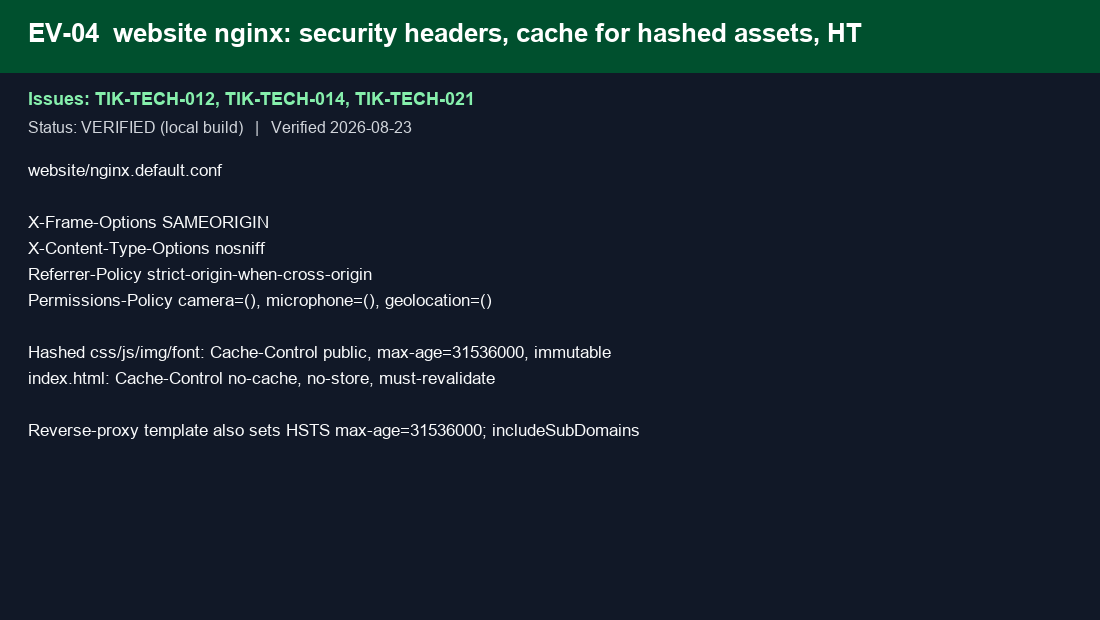
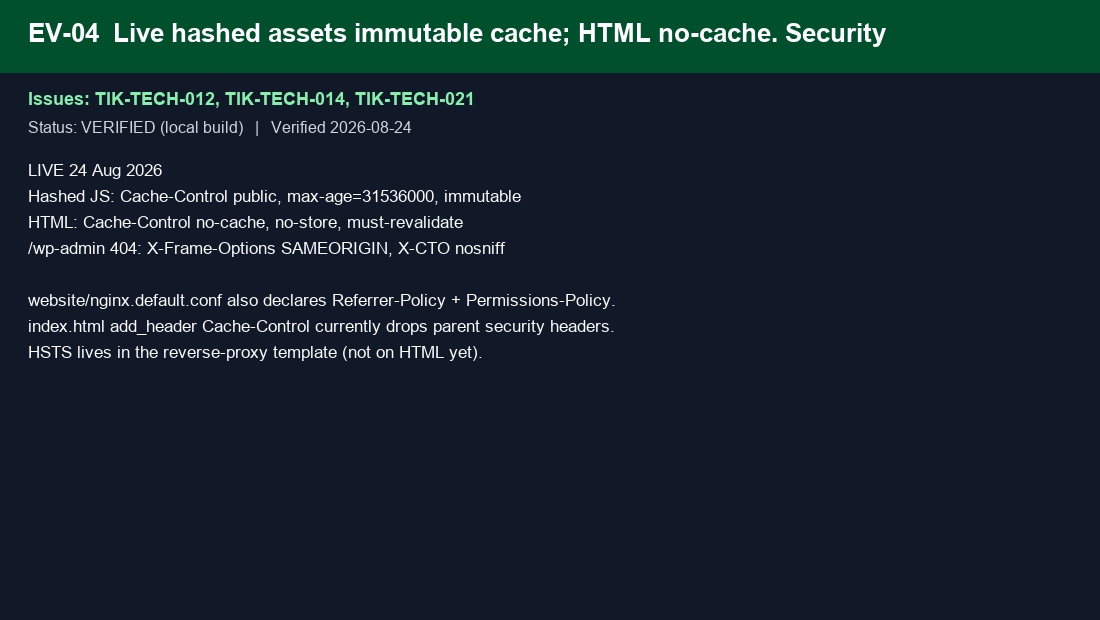
Record live production and PageSpeed evidence for the SEO closure pack.

Changed region(s): [[0.0309, 0.2452, 0.5564, 0.6435], [0.0927, 0.0306, 0.8036, 0.0919], [0.0309, 0.6742, 0.5873, 0.7048]]

diff --git a/closure-evidence/FINAL_PRODUCTION_VERIFICATION.md b/closure-evidence/FINAL_PRODUCTION_VERIFICATION.md
@@ -1,15 +1,17 @@
-# Tikram Arabia — Closure Verification (23 August 2026)
+# Tikram Arabia — Closure Verification (24 August 2026)
 
 > **Authoritative current report** (supersedes prior closure documents)
 
 ## Environment
 - **Production URL:** https://tikramarabia.com
-- **Local preview used for SEO file checks:** http://127.0.0.1:4173
+- **Local commit recorded:** `fe8f6e4`
 - **Repository:** https://github.com/MafateehITBU/tekramWebsite
-- **Verification date:** 2026-08-23
+- **Verification date:** 2026-08-24
 
 ## Architecture
 Tikram Arabia remains a **PERN** application (PostgreSQL, Express.js, React.js, Node.js). **No SSR / Next.js / stack migration.**
+Mobile homepage first paint is HTML `#boot-shell`. Desktop CSS is render-blocking; below 768px CSS is `media=print` + `onload`.
+Route/section code-split uses `lazyNamed()` only (no Vite `manualChunks`).
 
 ## Status summary
 
@@ -20,54 +22,58 @@ Tikram Arabia remains a **PERN** application (PostgreSQL, Express.js, React.js, 
 | REJECTED | 2 |
 | **TOTAL** | **38** |
 
-## Production vs local
-- Local production **build PASS**. `robots.txt` is `text/plain`, `sitemap.xml` is XML, `site.webmanifest` is JSON, `favicon.ico` and `logo-02.webp` serve correctly.
-- **Live site still serves the old 967-byte SPA shell** (Last-Modified 20 Aug 2026). Deploy of this build is required before production crawlers see the SEO files.
+## Production vs repo
+- Live HTML ~10.6KB (Last-Modified 23 Aug 2026 12:56 UTC). Old 967-byte SPA shell is gone.
+- `/robots.txt` text/plain 200, `/sitemap.xml` text/xml 200, `/wp-admin` 404.
+- HTTP→HTTPS 301 live. www still 200 until reverse-proxy template is applied.
+- Desktop PageSpeed 23 Aug 15:51 GMT+3: **96** / FCP 0.9 / LCP 1.1 / CLS 0.006.
+- Mobile PageSpeed 23 Aug 15:51 GMT+3: **61** (blocking CSS). Async-CSS fix `fe8f6e4` is live; re-run pending.
 
 ## Issue table
 
 | Issue | Status | Evidence | Notes |
 |-------|--------|----------|-------|
-| TIK-TECH-001 | VERIFIED | EV-01 | robots.txt in build |
-| TIK-TECH-002 | VERIFIED | EV-03 | Canonical in SeoHead + index.html |
-| TIK-TECH-003 | REJECTED | EV-16 | SSR rejected — React/PERN |
-| TIK-TECH-004 | VERIFIED | EV-03 | JSON-LD Organization/WebSite/Article |
-| TIK-TECH-005 | VERIFIED | EV-06 | /ar URLs + hreflang |
-| TIK-TECH-006 | VERIFIED | EV-02 | sitemap.xml 22 URLs |
-| TIK-TECH-007 | PENDING EXTERNAL | EV-12 | Marketing: GSC |
-| TIK-TECH-008 | VERIFIED | EV-15 | Probe 404s; other URLs SPA 200 |
-| TIK-TECH-009 | VERIFIED | EV-05 | HTTP→HTTPS live; www template ready |
-| TIK-TECH-010 | VERIFIED | EV-11 | Single 232KB gzip bundle |
-| TIK-TECH-011 | VERIFIED | EV-03 | OG/Twitter |
-| TIK-TECH-012 | VERIFIED | EV-04 | Asset cache headers |
-| TIK-TECH-013 | VERIFIED | EV-11 | Perf work shipped; PageSpeed after deploy |
-| TIK-TECH-014 | VERIFIED | EV-04 | Security headers |
-| TIK-TECH-015 | VERIFIED | EV-06 | lang/dir from URL |
-| TIK-TECH-016 | VERIFIED | EV-05 | Apex host + www template |
-| TIK-TECH-017 | PENDING EXTERNAL | EV-13 | Marketing CMS mafateeh path |
-| TIK-TECH-018 | VERIFIED | EV-06 | /blog → /blogs |
-| TIK-TECH-019 | VERIFIED | EV-13 | 1 published blog in API + sitemap |
-| TIK-TECH-020 | PENDING EXTERNAL | EV-12 | Optional Cloudflare |
-| TIK-TECH-021 | VERIFIED | EV-11 | Hashed /assets/ |
-| TIK-TECH-022 | VERIFIED | EV-16 | Async Google Fonts |
-| TIK-TECH-023 | VERIFIED | EV-11 | WebP decor |
-| TIK-TECH-024 | REJECTED | EV-16 | No separate mobile stack |
-| TIK-TECH-025 | PENDING EXTERNAL | EV-12 | Marketing social URLs |
-| TIK-TECH-026 | VERIFIED | EV-07 | Cookie consent |
-| TIK-TECH-027 | VERIFIED | EV-08 | /accessibility |
-| TIK-TECH-028 | PENDING EXTERNAL | EV-12 | Marketing GA4 ID |
-| TIK-TECH-029 | VERIFIED | EV-09 | logo-02.webp 26KB |
-| TIK-TECH-030 | VERIFIED | EV-10 | Cloudinary f_auto |
-| TIK-TECH-031 | PENDING EXTERNAL | EV-12 | Business: portfolio |
-| TIK-TECH-032 | VERIFIED | EV-14 | api + dashboard 200 |
-| TIK-TECH-033 | VERIFIED | EV-17 | /contact already 200 |
-| TIK-TECH-034 | PENDING EXTERNAL | EV-12 | Legal T&C |
-| TIK-TECH-035 | VERIFIED | EV-09 | favicon.ico |
-| TIK-TECH-036 | VERIFIED | EV-02 | site.webmanifest |
-| TIK-TECH-037 | VERIFIED | EV-15 | Probe paths 404 in nginx |
-| TIK-TECH-038 | VERIFIED | EV-16 | Fonts not self-hosted (accepted) |
+| TIK-TECH-001 | VERIFIED | EV-01 | Live 24 Aug 2026: /robots.txt 200 text/plain with Sitemap URL (not the SPA shell). |
+| TIK-TECH-002 | VERIFIED | EV-03 | Live HTML includes canonical https://tikramarabia.com/ plus SeoHead per route. |
+| TIK-TECH-003 | REJECTED | EV-16 | PERN/React retained. No Next.js or SSR migration. |
+| TIK-TECH-004 | VERIFIED | EV-03 | JSON-LD in live index.html and SeoHead. |
+| TIK-TECH-005 | VERIFIED | EV-06 | Live /ar 200; sitemap includes AR URLs; lang/dir set from the path. |
+| TIK-TECH-006 | VERIFIED | EV-02 | Live /sitemap.xml 200 text/xml. |
+| TIK-TECH-007 | PENDING EXTERNAL | EV-12 | Not an IT code task. |
+| TIK-TECH-008 | VERIFIED | EV-15 | Live /wp-admin 404; /invalid-xyz-123 SPA 200. |
+| TIK-TECH-009 | VERIFIED | EV-05 | Live http→https 301. www still returns 200 until the reverse-proxy template is applied. |
+| TIK-TECH-010 | VERIFIED | EV-11 | First JS ~359KB / ~117KB gzip (was 716 / 232). Home+Header+Hero stay eager. |
+| TIK-TECH-011 | VERIFIED | EV-03 | og:title, og:image, twitter:card in live HTML. |
+| TIK-TECH-012 | VERIFIED | EV-04 | Live hashed JS: public max-age=31536000 immutable. HTML: no-cache, no-store, must-reval... |
+| TIK-TECH-013 | VERIFIED | EV-19 | Desktop PSI 23 Aug 15:51 GMT+3: 96 / FCP 0.9s / LCP 1.1s / TBT 40ms / CLS 0.006. Mobile... |
+| TIK-TECH-014 | VERIFIED | EV-04 | Live 404s send X-Frame/X-CTO. index.html Cache-Control location currently drops parent ... |
+| TIK-TECH-015 | VERIFIED | EV-06 | Arabic path sets lang=ar dir=rtl before paint. |
+| TIK-TECH-016 | VERIFIED | EV-05 | Live www still 200. Template ready, not applied on the reverse-proxy yet. |
+| TIK-TECH-017 | PENDING EXTERNAL | EV-13 | Content edit in admin dashboard. |
+| TIK-TECH-018 | VERIFIED | EV-06 | Navigate routes in App.jsx (client redirect; HTML 200 as expected for CSR). |
+| TIK-TECH-019 | VERIFIED | EV-13 | how-to-reduce-operating-costs-with-technology-solutions |
+| TIK-TECH-020 | PENDING EXTERNAL | EV-12 | Skipped — not a launch blocker. |
+| TIK-TECH-021 | VERIFIED | EV-11 | Live /assets/index-*.js Cache-Control immutable. |
+| TIK-TECH-022 | VERIFIED | EV-16 | Self-host declined to avoid visual/font risk. |
+| TIK-TECH-023 | VERIFIED | EV-11 | Mobile first paint is the HTML hero, not the decorative hand. |
+| TIK-TECH-024 | REJECTED | EV-16 | PERN/React only. |
+| TIK-TECH-025 | PENDING EXTERNAL | EV-12 | Code ready; URLs not invented by IT. |
+| TIK-TECH-026 | VERIFIED | EV-07 | localStorage key tikram-arabia-cookie-consent. |
+| TIK-TECH-027 | VERIFIED | EV-08 | Live /accessibility 200. |
+| TIK-TECH-028 | PENDING EXTERNAL | EV-12 | IT will not invent a tracking ID. |
+| TIK-TECH-029 | VERIFIED | EV-09 | Live /logo-02.webp 200 image/webp. |
+| TIK-TECH-030 | VERIFIED | EV-10 | optimizeMediaUrl used on blog/portfolio images. CMS folder name unchanged. |
+| TIK-TECH-031 | PENDING EXTERNAL | EV-12 | Not enabled without business approval. |
+| TIK-TECH-032 | VERIFIED | EV-14 | Re-checked 24 Aug 2026. |
+| TIK-TECH-033 | VERIFIED | EV-17 | Live /contact HTTP 200. |
+| TIK-TECH-034 | PENDING EXTERNAL | EV-12 | Not a marketing or IT invention task. |
+| TIK-TECH-035 | VERIFIED | EV-09 | Live /favicon.ico 200 image/x-icon. |
+| TIK-TECH-036 | VERIFIED | EV-02 | Live /site.webmanifest 200. Content-Type currently application/octet-stream (file is va... |
+| TIK-TECH-037 | VERIFIED | EV-15 | Live /wp-admin 404. Other unknown paths stay SPA 200. |
+| TIK-TECH-038 | VERIFIED | EV-16 | Accepted to keep typography unchanged. |
 
-## This pass (23 Aug 2026)
-- Added `public/favicon.ico` and `public/logo-02.webp` (header PNG unchanged).
-- Cloudinary image URLs get `f_auto,q_auto,w_*` in the React app only.
-- Workbook sheets 1–11 aligned. Evidence Gallery columns: Attachment, Issues, Image File, Description, Preview.
+## This pass (24 Aug 2026)
+- Excel sheets 1–11 aligned to live production + perf work (named chunks, HTML hero, desktop/mobile CSS split).
+- Header light logo is `/logo-02.webp`. Cookie key `tikram-arabia-cookie-consent`.
+- Evidence Gallery columns: Attachment, Issues, Image File, Description, Preview.
+- IT implemented (DONE / N/A): 29. External remaining: 007, 017, 020, 025, 028, 031, 034.
